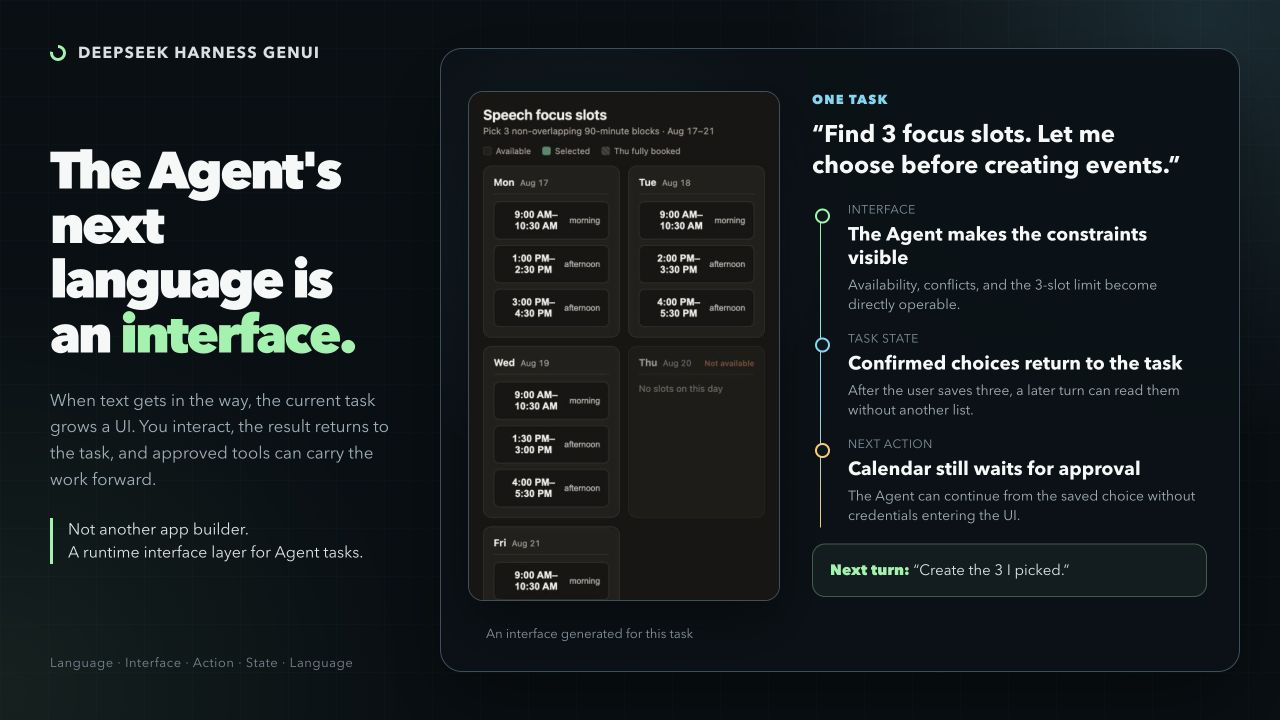
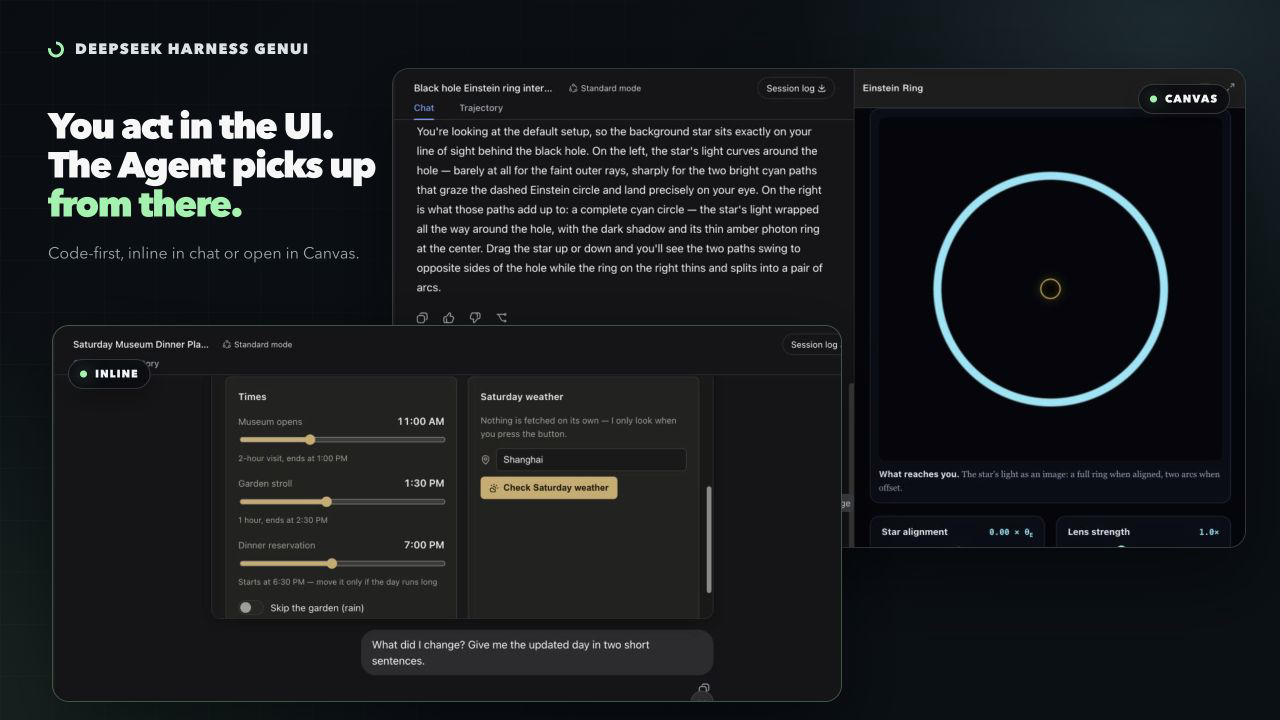
docs: redesign hero with real harness workflows

diff --git a/assets/hero.html b/assets/hero.html
@@ -3,7 +3,7 @@
 <head>
   <meta charset="utf-8">
   <meta name="viewport" content="width=1280, initial-scale=1">
-  <meta name="theme-color" content="#071014">
+  <meta name="theme-color" content="#090d11">
   <title>DeepSeek Harness GenUI</title>
   <script>
     const language = new URLSearchParams(location.search).get("lang") === "zh-CN" ? "zh-CN" : "en";
@@ -13,14 +13,12 @@
   <style>
     :root {
       color-scheme: dark;
-      --ink: #071014;
-      --panel: #0d191f;
-      --line: #29414c;
-      --text: #f4f8f7;
-      --muted: #9cb0ba;
+      --ink: #090d11;
+      --text: #f5f7f6;
+      --muted: #9ba7ae;
+      --line: rgba(211, 227, 232, .18);
       --green: #8cf3a8;
-      --cyan: #6ed6f1;
-      --amber: #ffc876;
+      --cyan: #79d9ee;
     }
 
     * { box-sizing: border-box; }
@@ -29,31 +27,42 @@
       position: relative;
       color: var(--text);
       background:
-        linear-gradient(rgba(110, 214, 241, .018) 1px, transparent 1px),
-        linear-gradient(90deg, rgba(110, 214, 241, .018) 1px, transparent 1px),
-        radial-gradient(circle at 94% 3%, rgba(110, 214, 241, .15), transparent 30%),
-        radial-gradient(circle at 0% 96%, rgba(140, 243, 168, .08), transparent 28%),
-        var(--ink);
-      background-size: 48px 48px, 48px 48px, auto, auto, auto;
+        radial-gradient(circle at 91% 6%, rgba(121, 217, 238, .13), transparent 28%),
+        radial-gradient(circle at 5% 94%, rgba(140, 243, 168, .09), transparent 28%),
+        linear-gradient(135deg, #090d11 0%, #0b1116 55%, #091015 100%);
       font-family: "Avenir Next", "PingFang SC", "Hiragino Sans GB", sans-serif;
       -webkit-font-smoothing: antialiased;
     }
-    [data-copy], [data-shot] { display: none; }
+    body::before {
+      position: absolute;
+      inset: 0;
+      background:
+        linear-gradient(rgba(121, 217, 238, .025) 1px, transparent 1px),
+        linear-gradient(90deg, rgba(121, 217, 238, .025) 1px, transparent 1px);
+      background-size: 52px 52px;
+      mask-image: linear-gradient(90deg, #000, transparent 72%);
+      content: "";
+    }
+    [data-copy], [data-shot] { display: none !important; }
     html[data-language="en"] [data-copy="en"],
     html[data-language="en"] [data-shot="en"],
     html[data-language="zh-CN"] [data-copy="zh-CN"],
-    html[data-language="zh-CN"] [data-shot="zh-CN"] { display: block; }
+    html[data-language="zh-CN"] [data-shot="zh-CN"] { display: block !important; }
+    html[data-language="en"] .mode[data-copy="en"],
+    html[data-language="zh-CN"] .mode[data-copy="zh-CN"] { display: flex !important; }
+
     .brand {
       position: absolute;
-      top: 42px;
-      left: 50px;
+      z-index: 5;
+      top: 39px;
+      left: 48px;
       display: flex;
       align-items: center;
-      gap: 12px;
-      color: #d6e0e4;
-      font-size: 16px;
-      font-weight: 700;
-      letter-spacing: .07em;
+      gap: 11px;
+      color: #dbe3e5;
+      font-size: 15px;
+      font-weight: 720;
+      letter-spacing: .075em;
       text-transform: uppercase;
     }
     .mark {
@@ -66,187 +75,124 @@
     }
     .copy {
       position: absolute;
-      z-index: 2;
-      top: 145px;
-      left: 50px;
-      width: 354px;
+      z-index: 5;
+      top: 108px;
+      left: 48px;
+      width: 340px;
     }
     h1 {
       margin: 0;
-      font-size: 52px;
+      max-width: 340px;
+      font-size: 42px;
       font-weight: 720;
-      letter-spacing: -.052em;
-      line-height: 1.05;
+      letter-spacing: -.045em;
+      line-height: 1.08;
       text-wrap: balance;
     }
-    html[data-language="zh-CN"] h1 { font-size: 49px; line-height: 1.1; }
+    html[data-language="en"] h1 {
+      font-size: 36px;
+      white-space: nowrap;
+    }
+    html[data-language="zh-CN"] h1 {
+      max-width: 340px;
+      font-size: 42px;
+      letter-spacing: -.035em;
+      line-height: 1.14;
+    }
     h1 em { color: var(--green); font-style: normal; }
     .lede {
-      margin: 24px 0 0;
+      margin: 17px 0 0;
+      max-width: 315px;
       color: var(--muted);
-      font-size: 17px;
-      line-height: 1.55;
-      text-wrap: pretty;
-    }
-    .positioning {
-      margin-top: 25px;
-      padding-left: 15px;
-      border-left: 3px solid var(--green);
-      color: #dce5e8;
       font-size: 16px;
-      line-height: 1.45;
+      line-height: 1.5;
     }
-    .formula {
+
+    .frame {
       position: absolute;
-      left: 50px;
-      bottom: 48px;
-      color: #718690;
-      font-size: 13px;
-      letter-spacing: .04em;
-    }
-    .story {
-      position: absolute;
-      top: 48px;
-      right: 40px;
-      width: 800px;
-      height: 624px;
       overflow: hidden;
-      border: 1px solid #35515d;
-      border-radius: 22px;
-      background:
-        radial-gradient(circle at 18% 30%, rgba(110, 214, 241, .07), transparent 31%),
-        rgba(9, 18, 23, .96);
-      box-shadow: 0 30px 82px rgba(0, 0, 0, .4);
+      margin: 0;
+      border: 1px solid var(--line);
+      border-radius: 17px;
+      background: #111315;
+      box-shadow: 0 28px 74px rgba(0, 0, 0, .48);
     }
-    .app-shot {
-      position: absolute;
-      top: 42px;
-      left: 27px;
-      width: 312px;
-      height: 510px;
-      border: 1px solid #3a515a;
-      border-radius: 15px;
+    .frame img {
+      display: block;
+      width: 100%;
+      height: 100%;
       object-fit: cover;
-      object-position: top center;
-      box-shadow: 0 22px 52px rgba(0, 0, 0, .38);
     }
-    .shot-note {
+    .canvas {
+      z-index: 2;
+      top: 68px;
+      right: 34px;
+      width: 854px;
+      height: 480px;
+    }
+    .inline {
+      z-index: 4;
+      left: 52px;
+      bottom: 18px;
+      width: 790px;
+      height: 377px;
+      border-color: rgba(140, 243, 168, .31);
+    }
+    .mode {
       position: absolute;
-      left: 45px;
-      bottom: 28px;
-      color: #7f939d;
-      font-size: 13px;
-    }
-    .story-copy {
-      position: absolute;
-      top: 39px;
-      right: 32px;
-      width: 395px;
-    }
-    .eyebrow {
-      color: var(--cyan);
-      font-size: 13px;
+      z-index: 6;
+      display: flex;
+      align-items: center;
+      gap: 8px;
+      min-height: 30px;
+      padding: 6px 11px;
+      border: 1px solid rgba(255, 255, 255, .16);
+      border-radius: 999px;
+      background: rgba(8, 12, 15, .88);
+      box-shadow: 0 8px 24px rgba(0, 0, 0, .3);
+      backdrop-filter: blur(12px);
+      color: #f1f5f4;
+      font-size: 11px;
       font-weight: 760;
-      letter-spacing: .09em;
+      letter-spacing: .08em;
       text-transform: uppercase;
     }
-    .request {
-      margin: 9px 0 20px;
-      font-size: 24px;
-      font-weight: 650;
-      line-height: 1.3;
-      text-wrap: balance;
-    }
-    html[data-language="zh-CN"] .request { font-size: 25px; }
-    .rail {
-      position: relative;
-      margin-top: 15px;
-    }
-    .rail::before {
-      position: absolute;
-      top: 14px;
-      bottom: 14px;
-      left: 8px;
-      width: 1px;
-      background: linear-gradient(var(--green), var(--cyan) 58%, var(--amber));
-      content: "";
-    }
-    .step {
-      position: relative;
-      min-height: 91px;
-      padding: 0 0 16px 36px;
-    }
-    .step::before {
-      position: absolute;
-      top: 7px;
-      left: 3px;
-      width: 11px;
-      height: 11px;
-      border: 2px solid var(--green);
+    .mode::before {
+      width: 7px;
+      height: 7px;
       border-radius: 50%;
-      background: #0a171c;
+      background: var(--green);
+      box-shadow: 0 0 16px rgba(140, 243, 168, .7);
       content: "";
     }
-    .step:nth-child(2)::before { border-color: var(--cyan); }
-    .step:nth-child(3)::before { border-color: var(--amber); }
-    .step small { display: block; color: #7d929c; font-size: 12px; letter-spacing: .04em; text-transform: uppercase; }
-    .step strong { display: block; margin-top: 5px; font-size: 19px; line-height: 1.25; }
-    .step p { margin: 5px 0 0; color: #9eb0b8; font-size: 14px; line-height: 1.4; }
-    .next-turn {
-      margin-top: 2px;
-      padding: 15px 17px;
-      border: 1px solid rgba(140, 243, 168, .3);
-      border-radius: 13px;
-      background: rgba(140, 243, 168, .055);
-      color: #dbe6e9;
-      font-size: 15px;
-      line-height: 1.45;
-    }
-    .next-turn span { color: var(--green); font-weight: 720; }
+    .mode-canvas { top: 84px; right: 50px; }
+    .mode-inline { left: 68px; bottom: 331px; }
   </style>
 </head>
 <body>
   <div class="brand"><i class="mark" aria-hidden="true"></i><span translate="no">DeepSeek Harness GenUI</span></div>
 
   <section class="copy" data-copy="en">
-    <h1>The Agent's next language is an <em>interface.</em></h1>
-    <p class="lede">When text gets in the way, the current task grows a UI. You interact, the result returns to the task, and approved tools can carry the work forward.</p>
-    <p class="positioning">Not another app builder.<br>A runtime interface layer for Agent tasks.</p>
+    <h1>You act in the UI.<br>The Agent picks up<br><em>from there.</em></h1>
+    <p class="lede">Code-first, inline in chat or open in Canvas.</p>
   </section>
   <section class="copy" data-copy="zh-CN">
-    <h1>Agent 的下一种语言，<em>是界面。</em></h1>
-    <p class="lede">文字不好用时，让当前任务临时长出一个界面。用户直接操作，结果回到任务，再由 Agent 或已授权的工具继续。</p>
-    <p class="positioning">不是另一个 App Builder。<br>这是 Agent 任务里的动态界面层。</p>
+    <h1>你在界面里操作，<br>Agent 下一轮<br><em>接着做。</em></h1>
+    <p class="lede">Code-first，放在对话里，也能展开到 Canvas。</p>
   </section>
-  <div class="formula">Language · Interface · Action · State · Language</div>
 
-  <section class="story">
-    <img class="app-shot" data-shot="en" src="../screenshots/en/calendar-planner.jpg" width="440" height="720" alt="Calendar interface generated for choosing 3 focus slots">
-    <img class="app-shot" data-shot="zh-CN" src="../screenshots/zh-CN/calendar-planner.jpg" width="440" height="720" alt="已选中 3 个日历时段的界面">
-    <span class="shot-note" data-copy="en">An interface generated for this task</span>
-    <span class="shot-note" data-copy="zh-CN">为当前任务生成的界面</span>
+  <figure class="frame canvas">
+    <img data-shot="en" src="../screenshots/en/science-canvas.jpg" width="1224" height="688" alt="A scientific explanation and interactive model open together in DeepSeek Harness Canvas">
+    <img data-shot="zh-CN" src="../screenshots/zh-CN/galaxy-canvas.jpg" width="1224" height="688" alt="DeepSeek Harness 对话与右侧银河尺度交互模型">
+  </figure>
+  <div class="mode mode-canvas" data-copy="en">Canvas</div>
+  <div class="mode mode-canvas" data-copy="zh-CN">Canvas</div>
 
-    <div class="story-copy" data-copy="en">
-      <span class="eyebrow">One task</span>
-      <h2 class="request">“Find 3 focus slots. Let me choose before creating events.”</h2>
-      <div class="rail">
-        <section class="step"><small>Interface</small><strong>The Agent makes the constraints visible</strong><p>Availability, conflicts, and the 3-slot limit become directly operable.</p></section>
-        <section class="step"><small>Task state</small><strong>Confirmed choices return to the task</strong><p>After the user saves three, a later turn can read them without another list.</p></section>
-        <section class="step"><small>Next action</small><strong>Calendar still waits for approval</strong><p>The Agent can continue from the saved choice without credentials entering the UI.</p></section>
-      </div>
-      <div class="next-turn"><span>Next turn:</span> “Create the 3 I picked.”</div>
-    </div>
-
-    <div class="story-copy" data-copy="zh-CN">
-      <span class="eyebrow">一个任务</span>
-      <h2 class="request">“找出 3 个专注时段，先让我选，再写进日历。”</h2>
-      <div class="rail">
-        <section class="step"><small>界面</small><strong>Agent 把约束摆到面前</strong><p>空闲、冲突和 3 个时段的限制，变成可以直接操作的页面。</p></section>
-        <section class="step"><small>任务状态</small><strong>选中的 3 个时段回到任务</strong><p>Agent 后续轮次读取保存结果，不用让用户再列一遍。</p></section>
-        <section class="step"><small>下一步行动</small><strong>Calendar 仍要先经过授权</strong><p>Agent 可以接着使用保存结果，凭据不会进入生成代码。</p></section>
-      </div>
-      <div class="next-turn"><span>下一轮：</span>“把我刚才选的 3 个建好。”</div>
-    </div>
-  </section>
+  <figure class="frame inline">
+    <img data-shot="en" src="../screenshots/en/route-planner-inline.jpg" width="1174" height="560" alt="An edited day plan and the next user turn shown inline in DeepSeek Harness">
+    <img data-shot="zh-CN" src="../screenshots/zh-CN/route-planner-inline.jpg" width="1174" height="560" alt="DeepSeek Harness 对话中保存过选择的路线规划界面与下一轮提问">
+  </figure>
+  <div class="mode mode-inline" data-copy="en">Inline</div>
+  <div class="mode mode-inline" data-copy="zh-CN">Inline</div>
 </body>
 </html>

diff --git a/README.md b/README.md
@@ -5,7 +5,7 @@ English | [简体中文](README.zh-CN.md)
 [![Node.js](https://img.shields.io/badge/Node.js-%E2%89%A522.19-339933?logo=nodedotjs&logoColor=white)](package.json)
 [![License](https://img.shields.io/badge/license-MIT-202124)](LICENSE)
 
-<img src="assets/hero-en.png" width="1280" alt="A task becomes an interface, saved choices return to the task, and later actions wait for approval">
+<img src="assets/hero-en.png" width="1280" alt="DeepSeek Harness with an interactive day plan inline and a scientific model open in Canvas">
 
 Some tasks are awkward in text. DeepSeek Harness GenUI lets an Agent create a focused interface for the current task: something that explains a difficult relationship or collects a complex user response.
 

diff --git a/README.zh-CN.md b/README.zh-CN.md
@@ -5,7 +5,7 @@
 [![Node.js](https://img.shields.io/badge/Node.js-%E2%89%A522.19-339933?logo=nodedotjs&logoColor=white)](package.json)
 [![License](https://img.shields.io/badge/license-MIT-202124)](LICENSE)
 
-<img src="assets/hero-zh-CN.png" width="1280" alt="当前任务生成界面，保存的选择回到任务，后续行动仍需授权">
+<img src="assets/hero-zh-CN.png" width="1280" alt="DeepSeek Harness 同时展示保存过选择的路线 Inline 和银河尺度 Canvas">
 
 有些任务用文字来回描述很别扭。DeepSeek Harness GenUI 让 Agent 可以为当前任务生成一个聚焦界面，用来讲清复杂关系，或收集难以用一段话表达的用户选择。
 
